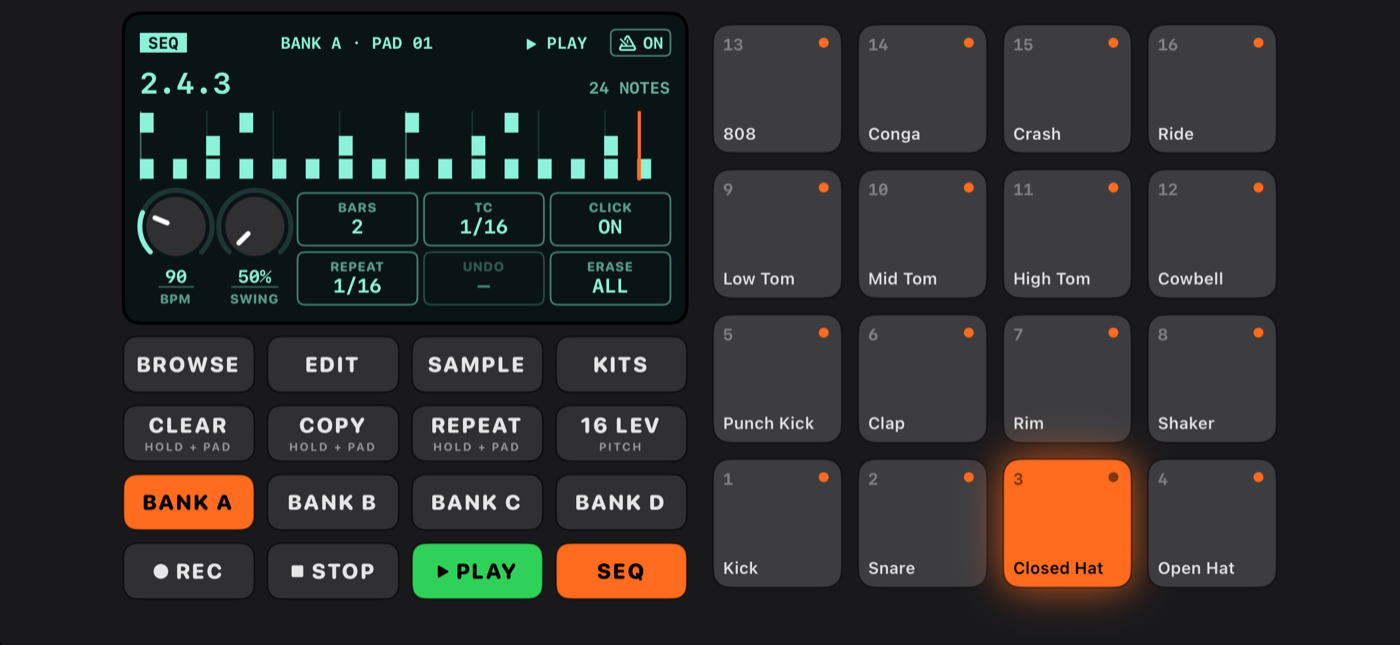
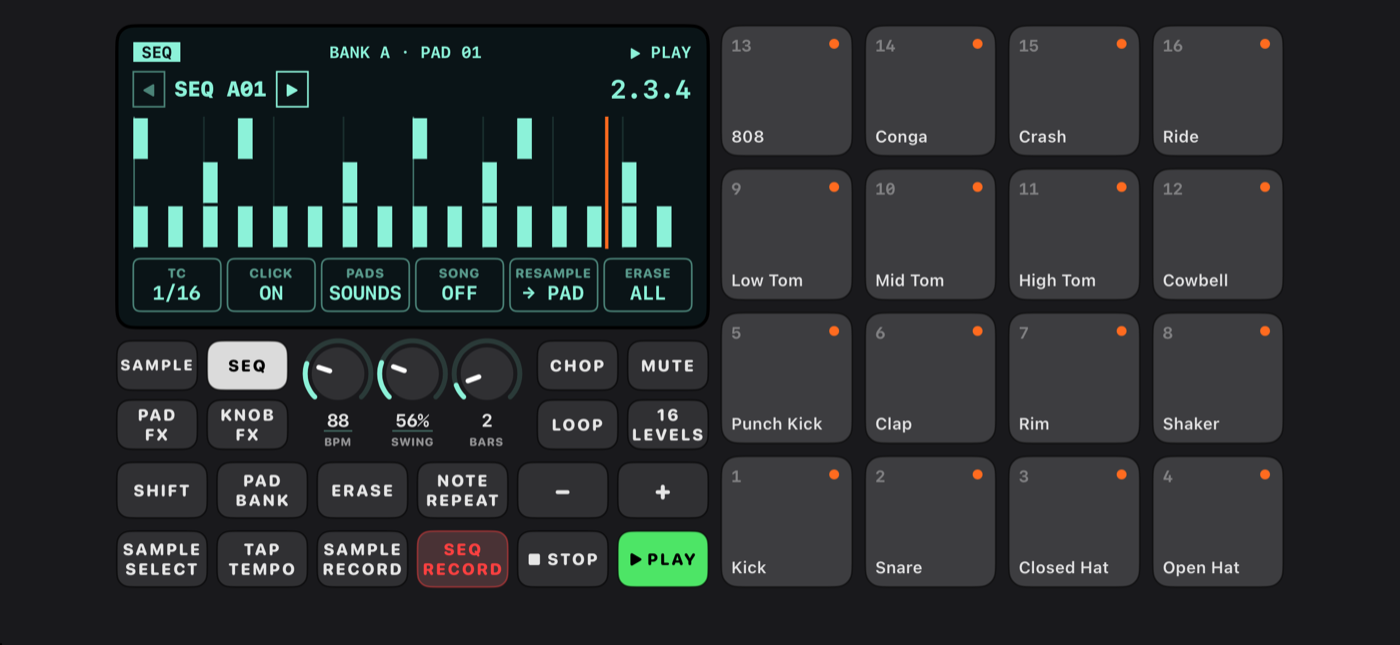
Screenshots for 0.20.0

Changed region(s): [[0.0614, 0.0, 0.9214, 0.9612], [0.5836, 0.7132, 0.6757, 0.8992]]

diff --git a/README.md b/README.md
@@ -12,8 +12,8 @@ An MPC-style sampler for iPhone and iPad (iOS 17 or later). Pick a song from you
   <img src="docs/landscape.png" width="640" alt="ChopPad in landscape with the sequencer playing">
 </p>
 <p align="center">
-  <img src="docs/sampler.png" width="220" alt="Sampler: chopping a song into slices">
-  <img src="docs/browse.png" width="220" alt="Browsing sounds to load onto pads">
+  <img src="docs/sampler.png" width="220" alt="CHOP: cutting a song into slices">
+  <img src="docs/browse.png" width="220" alt="SAMPLE SELECT: picking sounds for the pads">
 </p>
 
 ## Install with SideStore
